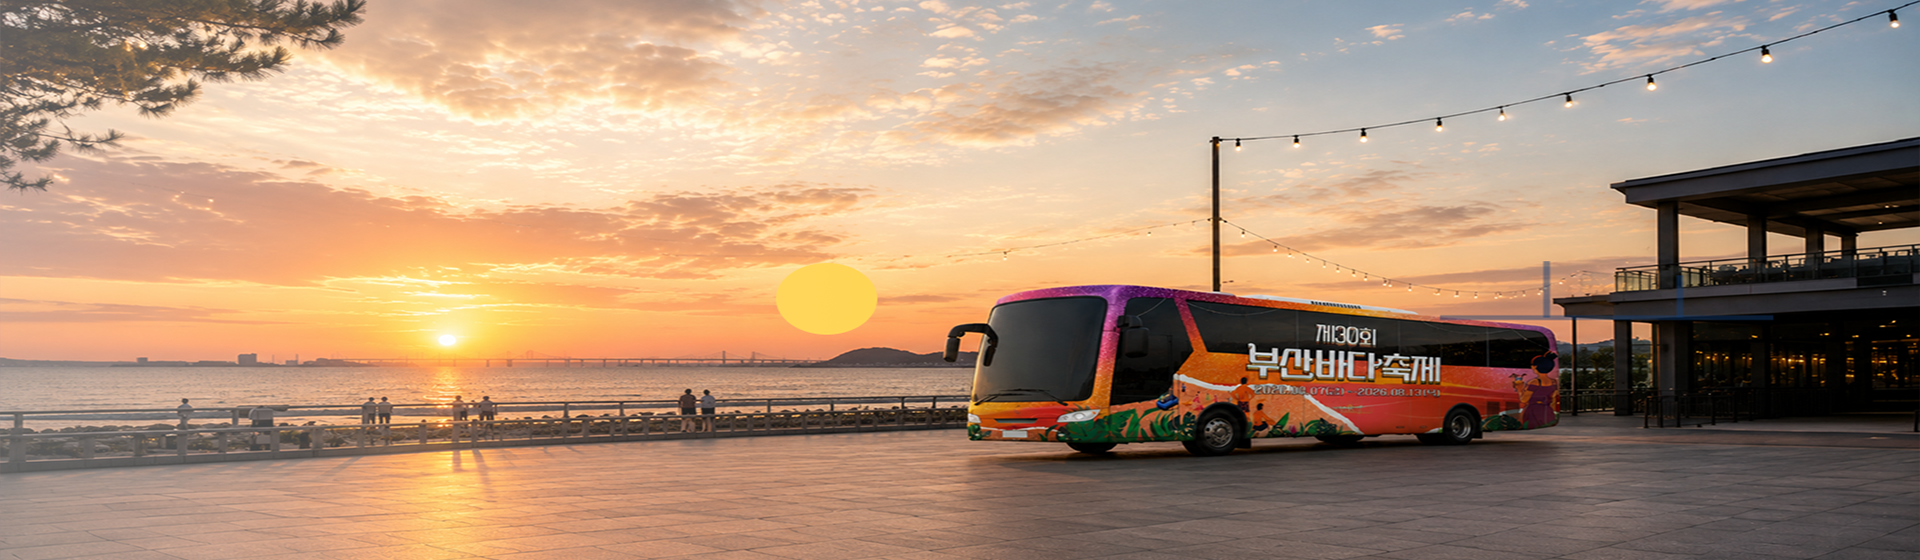
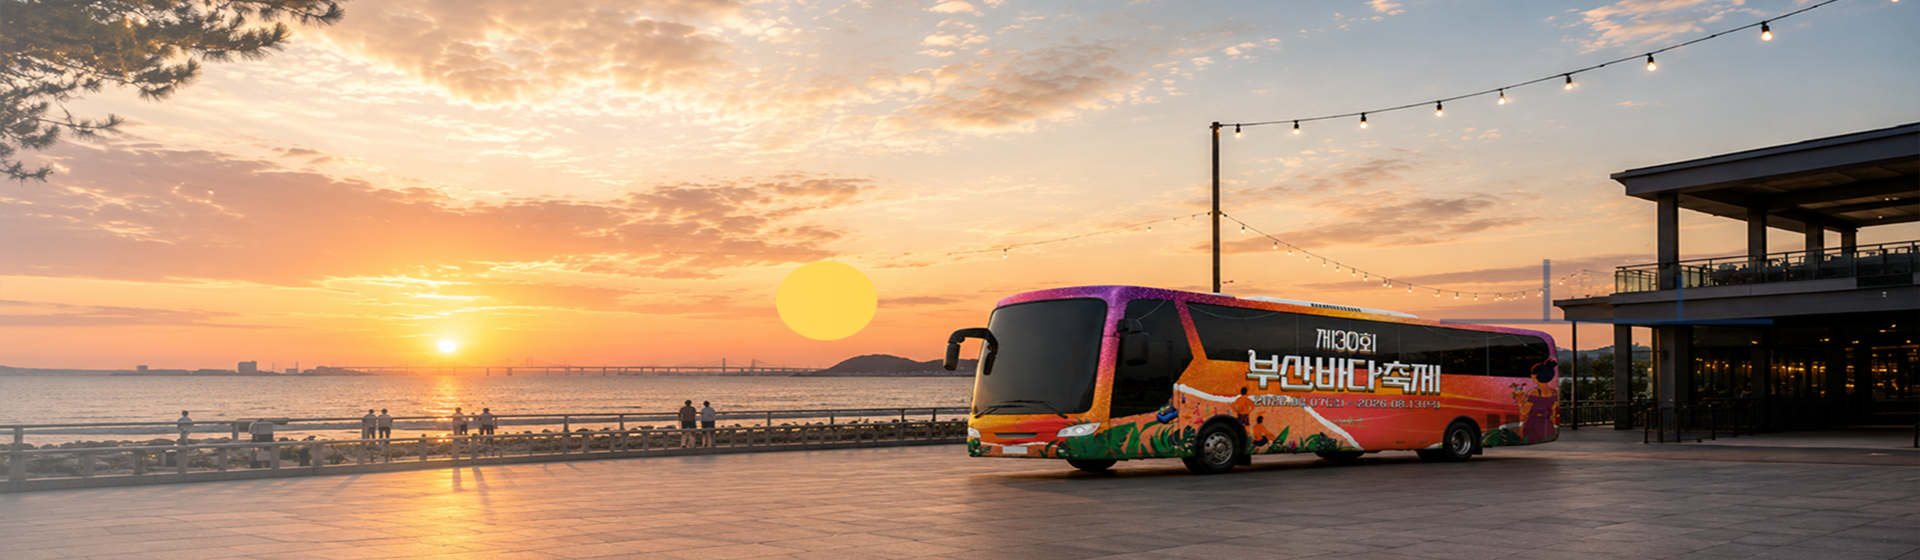
가이드 배너 수정

diff --git a/css/main.css b/css/main.css
@@ -1256,3 +1256,16 @@ a:focus-visible,button:focus-visible,input:focus-visible,select:focus-visible,te
     ),
     url("../assets/프로그램/프로그램 헤더.png") center / cover no-repeat;
 }
+
+
+.guide-hero{
+  background:
+    linear-gradient(
+      90deg,
+      rgba(255,250,244,.68) 0%,
+      rgba(255,247,238,.42) 28%,
+      rgba(255,244,231,.12) 48%,
+      rgba(255,255,255,0) 68%
+    ),
+    url("../assets/가이드/가이드 메인헤더.png") center / cover no-repeat;
+}

diff --git a/guide.html b/guide.html
@@ -35,7 +35,7 @@
 <main id="main-content" tabindex="-1">
 
 
-<section class="hero sub-hero">
+<section class="hero sub-hero guide-hero">
   <div class="container hero-content">
         <h1>GUIDE</h1>
         <h2 style="font-size:22px;color:var(--navy-2);margin:14px 0 0">부산바다축제를 더욱 편하게 즐기기 위한 안내입니다</h2>
